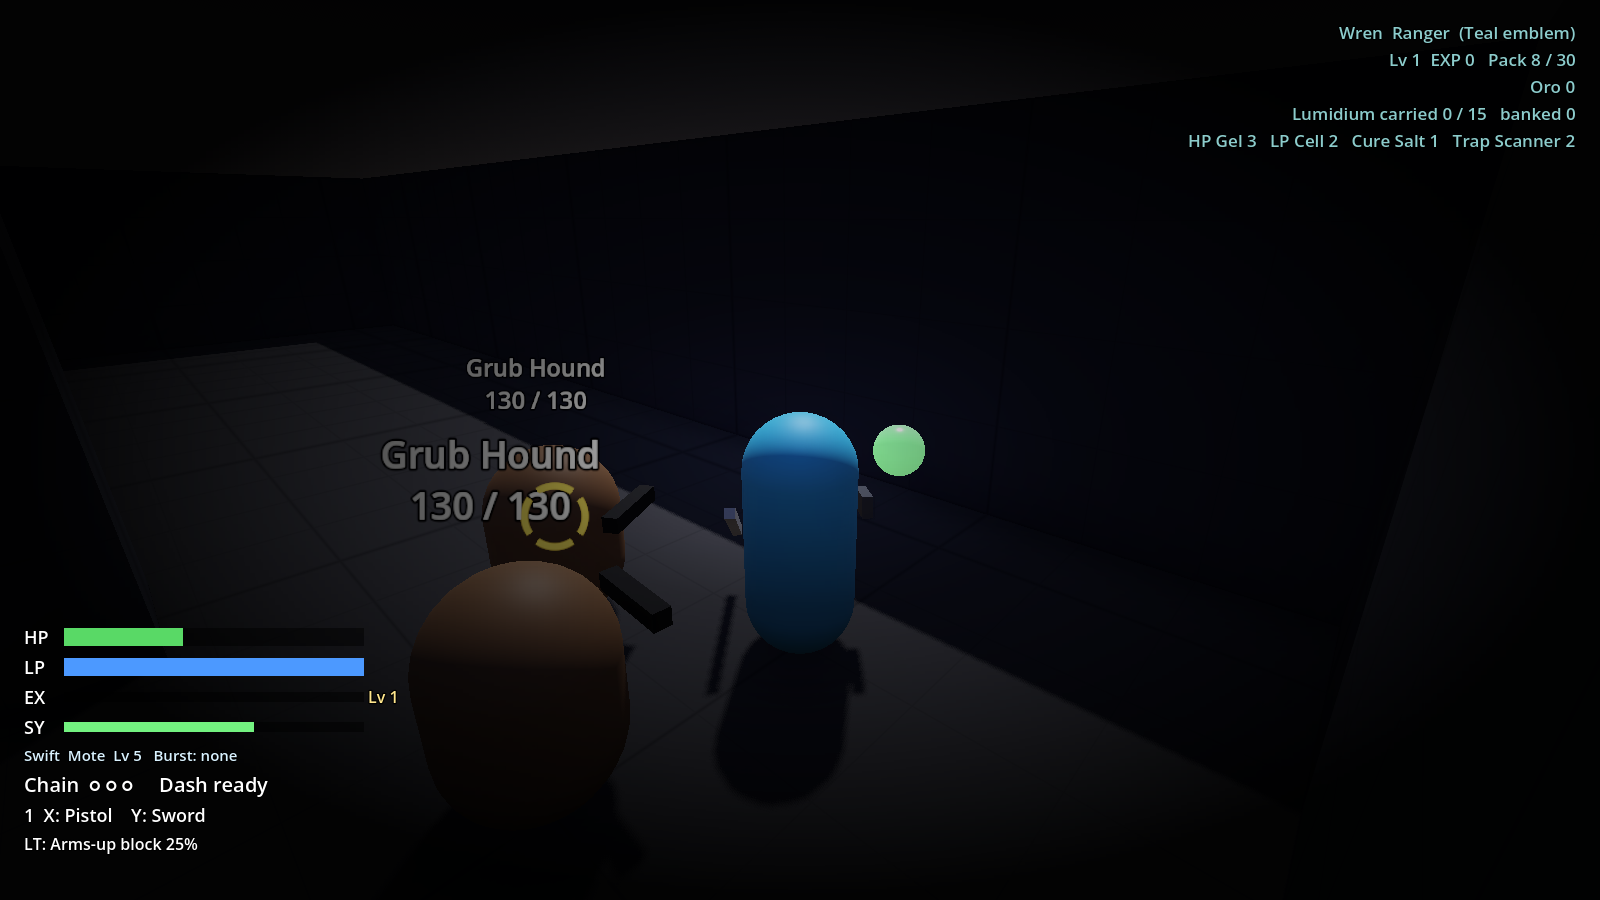
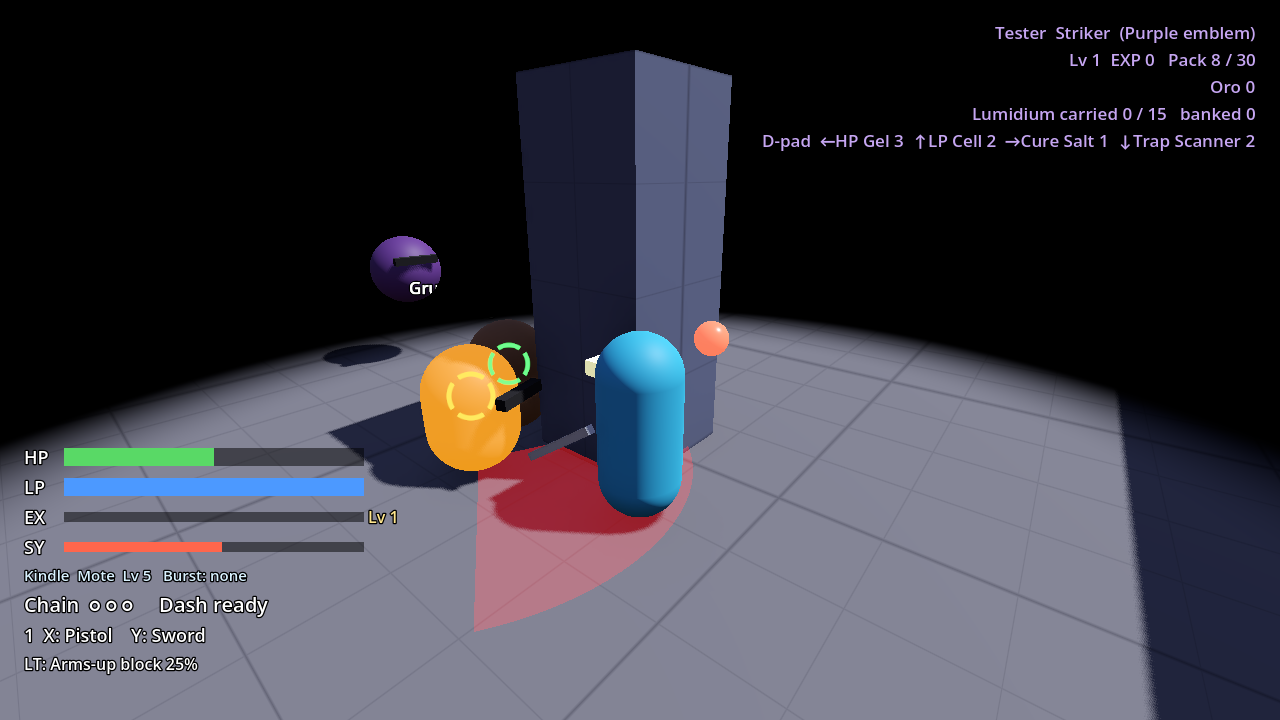
Darkness: real 8 m sight limit, +25 dodge past it
Replaces the HUD vignette and the black room box with DarkVision, a
per-Seeker full-screen depth shader that blacks out everything farther
than the room's sight_range (8 m) from the Seeker. It sits on the
Seeker's marker layer, so only their pane draws it; target rings and
damage numbers render above it, and lock-on is unchanged.

Enemies beyond the attacker's sight get 25 extra dodge points
(RoomHazard.dark_dodge -> Accuracy.hit_percent). Spells still never miss.

Claude-Session: https://claude.ai/code/session_0158GMUbAThobuu7yWuNoptn

diff --git a/README.md b/README.md
@@ -260,7 +260,7 @@ PSO-style hazards and buttons (Grayson, 2026-11-09).
 
 - **Room hazards** (`RoomHazard`) belong to rooms but can **span several boxes**. The poison mist covers the poison room and its corridor. A button turns them off or on.
   - **Poison mist:** drains 2% of max HP a second from anyone inside, Goluman included. It isn't the Poisoned status, and like PSO's poison it never takes you below 1 HP.
-  - **Darkness:** the view closes down to a small circle around you while you're inside, and the room reads black from outside.
+  - **Darkness:** while you're inside you can't see more than **8 m** from your Seeker: everything farther is drawn black (a depth shader, one per Seeker, so a partner outside the room still sees normally). Lock-on still reaches into the dark and the target rings show through it, but **enemies past your sight are 25 points harder to hit** (spells still never miss). From outside, the room looks normal.
 - **Buttons** (`RoomButton`) come in groups (`SwitchGroup`). When every button in a group is down, the group acts on its targets: open, close or toggle a door (`SwitchDoor`); turn a hazard off, on or toggle it; start a room's waves; turn traps off.
   - **Press buttons:** a pedestal you press with A, once.
   - **Floor plates:** you stand on them. Alone, every plate but the last stays down once stepped on (PSO), and the last needs you on it. **In co-op, plates minus Seekers stay down**: four plates with two Seekers means two latch and the last two need a Seeker on each.
